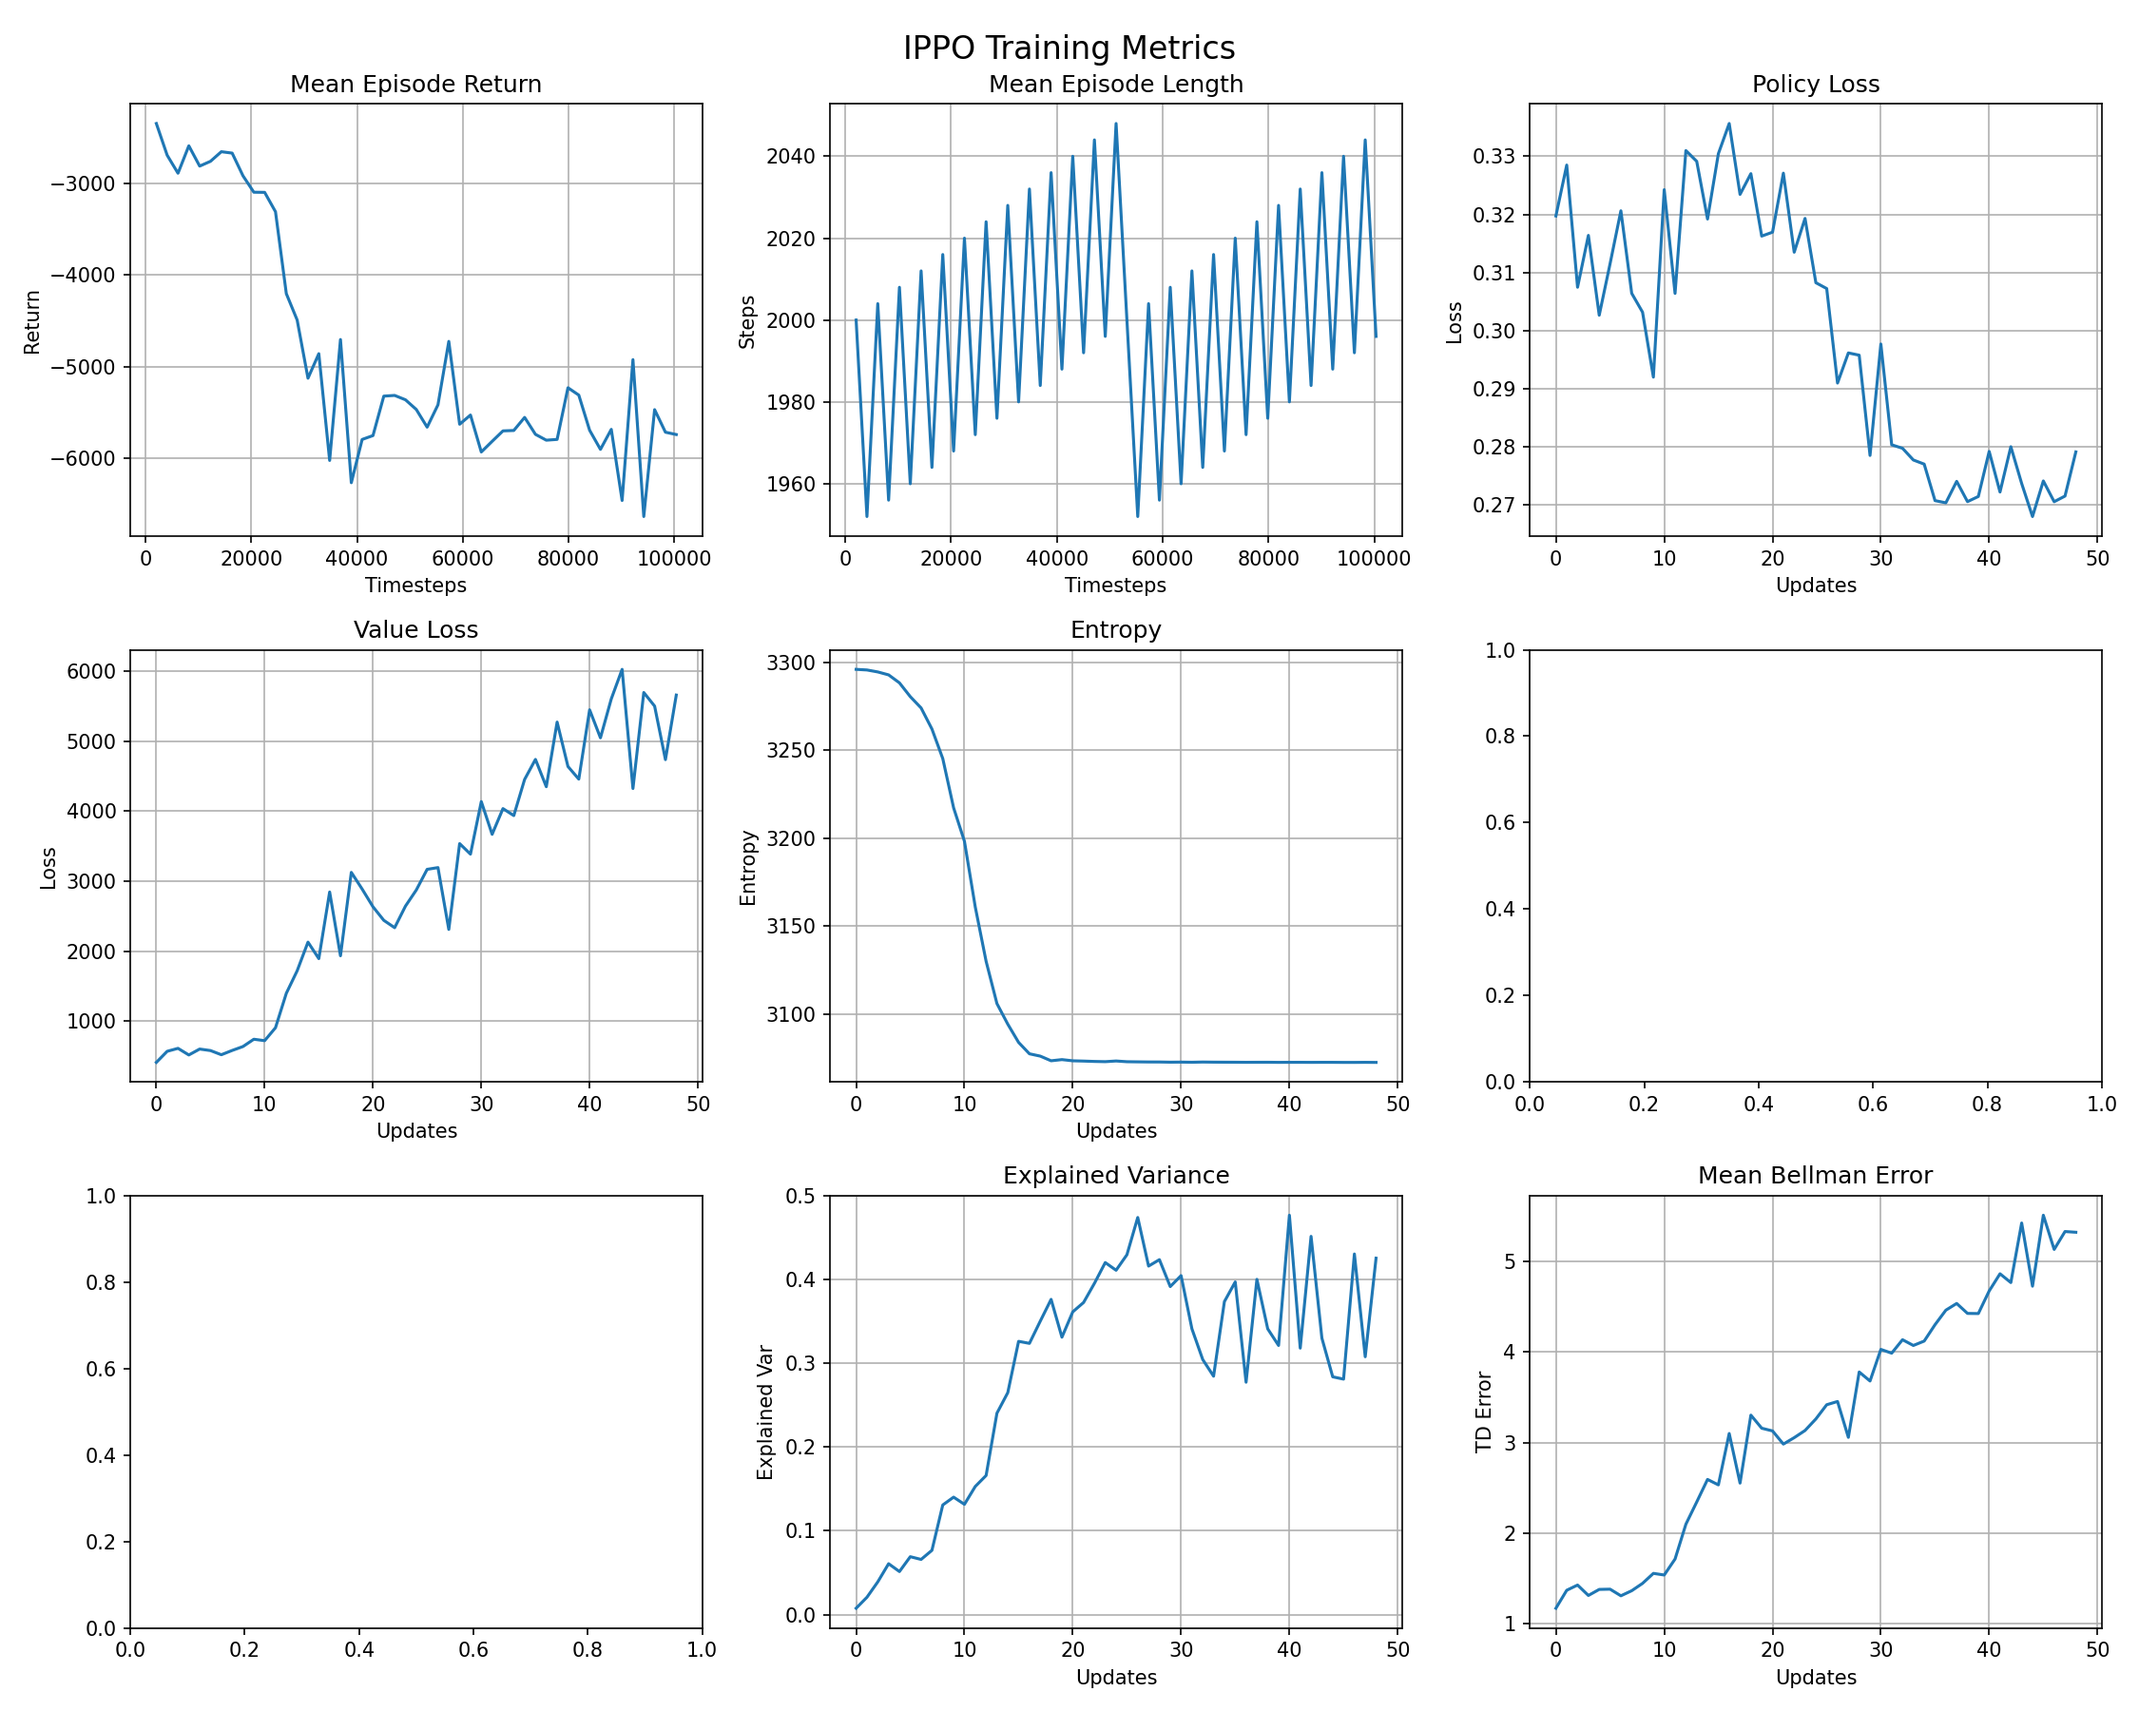
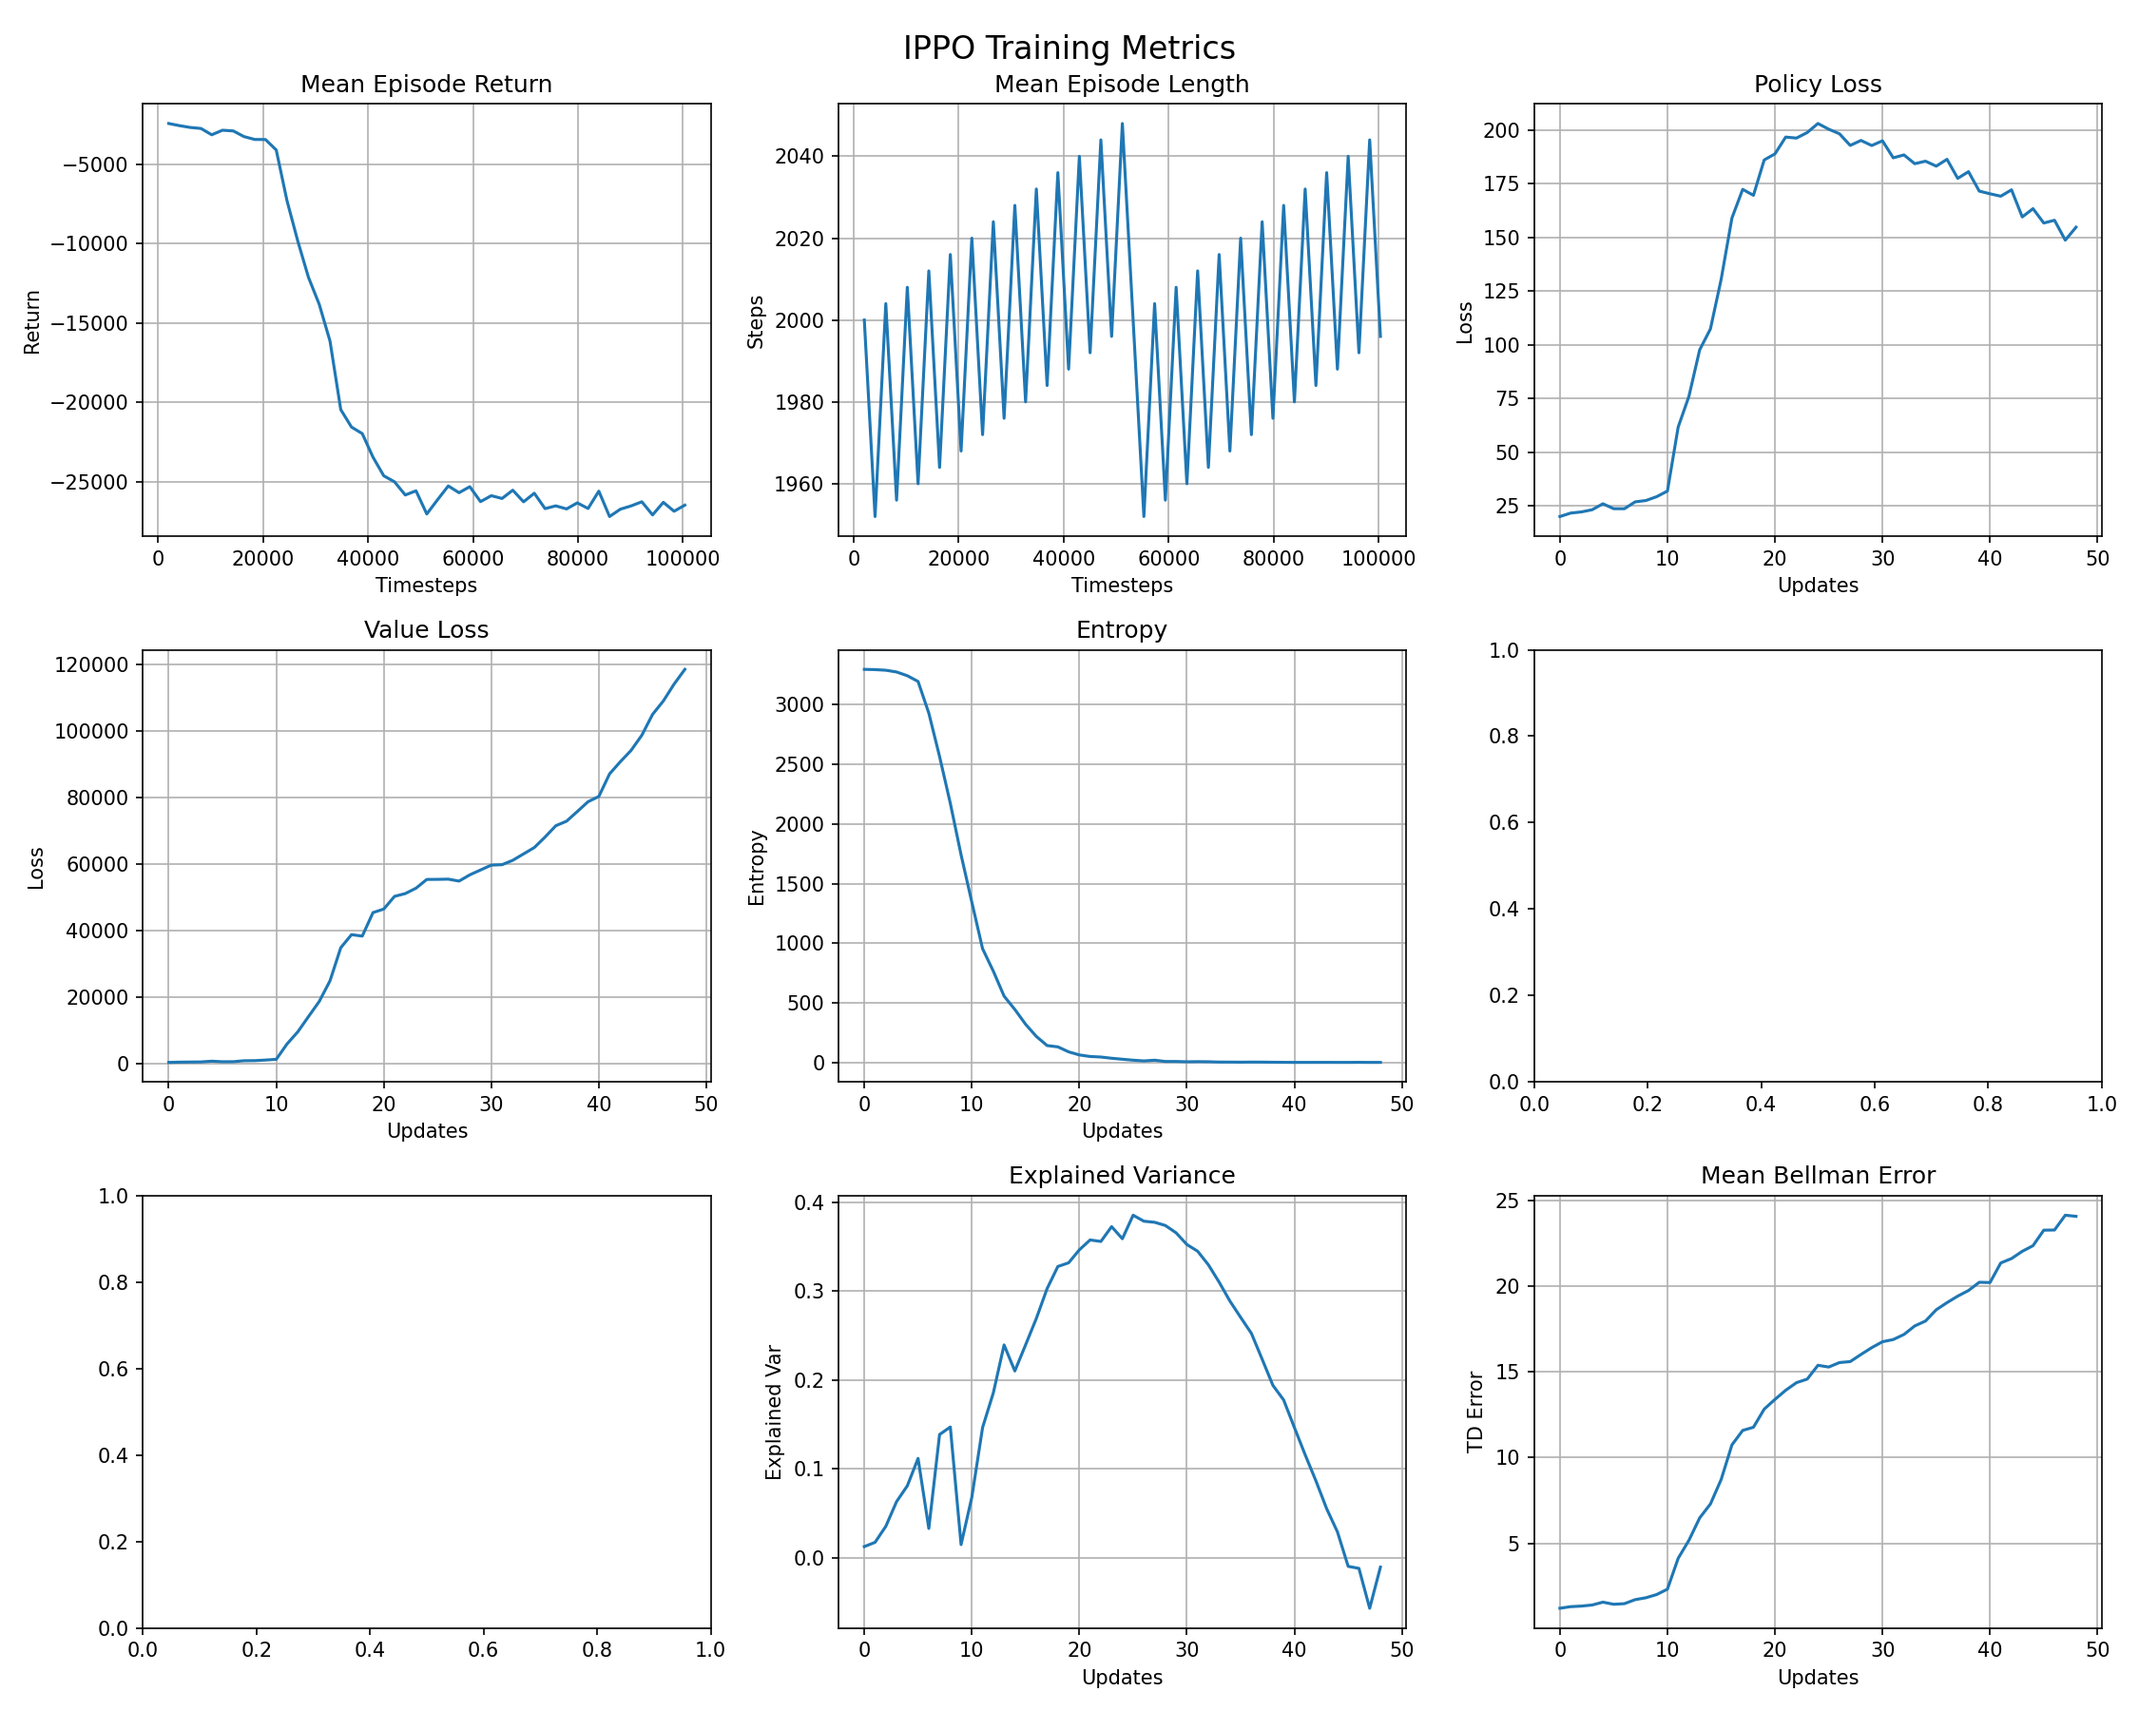
ippo training things

diff --git a/ippo/networks.py b/ippo/networks.py
@@ -32,8 +32,6 @@ class ActorNetwork(nn.Module):
         x = F.relu(x)
 
         x = self.fc3(x)
-        x = F.softmax(x)
-
 
         return x
     
@@ -47,8 +45,7 @@ class ActorNetwork(nn.Module):
             action = dist.sample()
 
         log_prob = dist.log_prob(action)
-        log_prob = log_prob.sum(dim=-1)
-        entropy = dist.entropy().sum(dim=-1)
+        entropy = dist.entropy()
         return action, log_prob, entropy
     
 
@@ -58,7 +55,6 @@ class ActorNetwork(nn.Module):
         dist = Categorical(logits=logits)
 
         log_prob = dist.log_prob(actions)
-        log_prob = log_prob.sum(dim=-1)
 
         entropy = dist.entropy().sum(dim=-1)
 

diff --git a/ippo/rolloutBuffer.py b/ippo/rolloutBuffer.py
@@ -69,7 +69,7 @@ class RolloutBuffer:
         log_probs = torch.as_tensor(self.log_probs).float()
 
         adv = self.advantages
-        adv = (adv - adv.mean()) / (adv.std() + 1e-8)
+        #adv = (adv - adv.mean()) / (adv.std() + 1e-8)
 
 
         return obs, actions, log_probs, adv, self.returns

diff --git a/ippo/ppoagent.py b/ippo/ppoagent.py
@@ -39,7 +39,7 @@ class PPOAgent:
         value = self.critic.forward(obs)
 
 
-        return actions.item(), log_probs.item(), value.item()
+        return actions.item(), log_probs.item(), value.squeeze(0).item()
     
 
     def update(self, last_obs, num_epochs=10, mini_batch_size=None):
